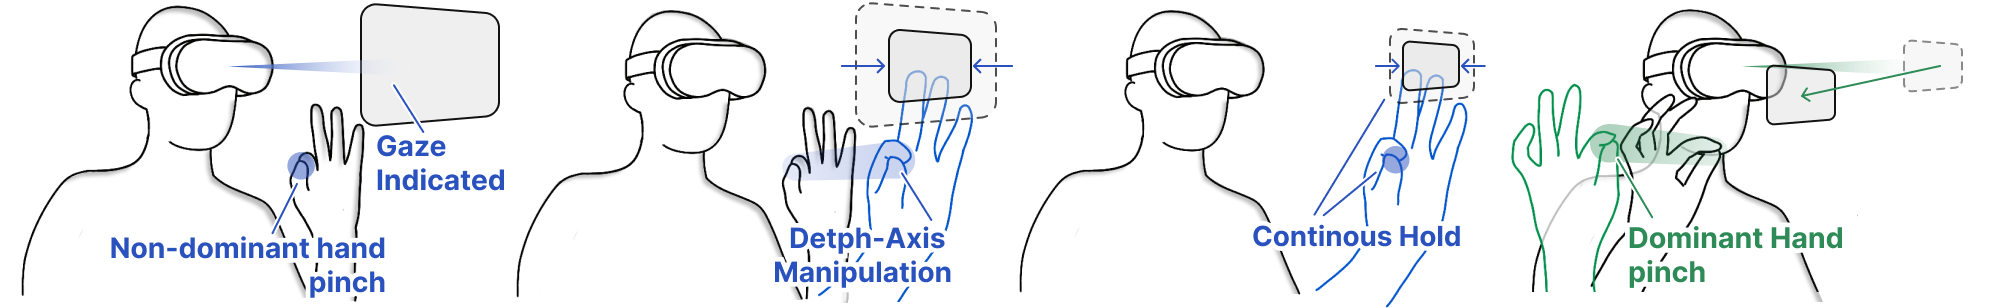
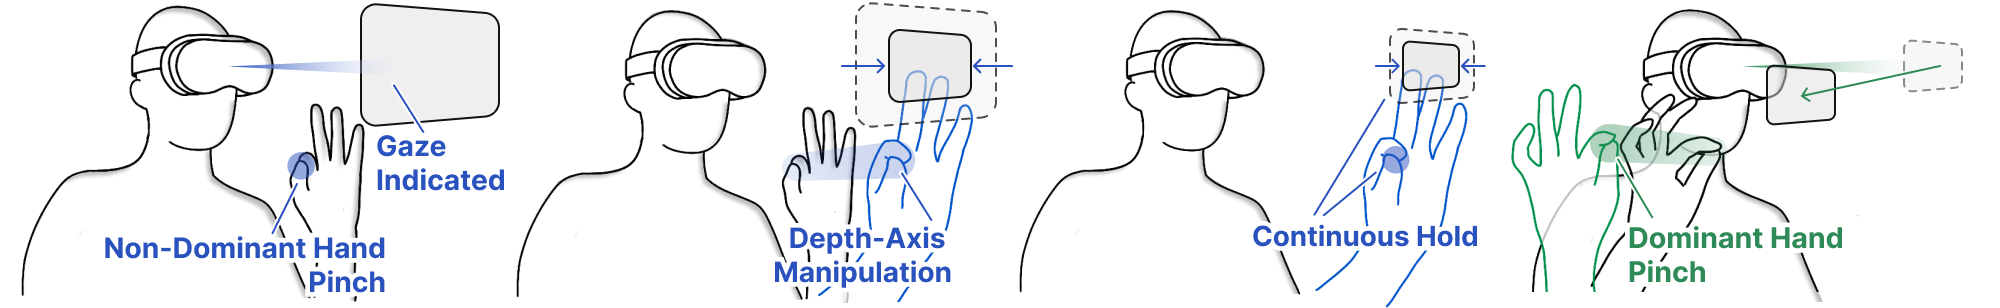
Add video via Git LFS

diff --git a/index.html b/index.html
@@ -71,7 +71,7 @@
                 <span class="link-block">
                   <a href="#" class="external-link button is-normal is-rounded is-dark is-disabled-link">
                     <span class="icon"><i class="fab fa-github"></i></span>
-                    <span>Github</span>
+                    <span>GitHub</span>
                   </a>
                 </span>
 
@@ -116,12 +116,14 @@
           <div class="content has-text-justified">
             <p class="placeholder-text">Object scaling serves as a fundamental spatial manipulation that enables complex and productive tasks in XR environments. This paper investigates unimanual scaling techniques for XR using gaze and hand interactions. We propose UniScale, a set of unimanual alternatives to the standard bimanual pinch, allowing users to scale objects while preserving hand availability for concurrent spatial manipulations. We design five distinct mapping strategies based on physical metaphors, exploring unimanual control that varies depth, angle, micro-gestures, and finger-distance input. We then compare these techniques against a standard bimanual baseline, in which users adjust the inter-hand distance via a bimanual pinch gesture. In a user study, we evaluate their effectiveness in a 3D object scaling task under both clutching and clutching-free conditions. The results indicate that while bimanual scaling relies on clutching for stable control, unimanual techniques excel in clutching-free conditions, significantly reducing physical hand movement. From the results, we derive valuable design implications for developing efficient 3D multimodal interactions in XR.</p>
           </div>
+          <!--
           <div class="learn-more-container" style="margin-top: 20px;">
             <a href="#" class="button is-info is-rounded is-light is-disabled-link">
               <span class="icon"><i class="fas fa-arrow-right"></i></span>
               <span>Learn more about UniScale</span>
             </a>
           </div>
+          -->
         </div>
       </div>
     </div>
@@ -131,6 +133,12 @@
   <section class="section method-overview-section">
     <div class="container is-max-desktop">
       <div class="method-overview-block">
+        <h2 class="title is-3 method-overview-title">Method Overview</h2>
+        <div class="content method-overview-content">
+          <p class="placeholder-text">Gaze selects the target, then NDH pinch gestures control scaling — freeing the DH for concurrent tasks — across five techniques in clutching and clutch-free modes.</p>
+          <p class="placeholder-text">Six gaze+pinch scaling techniques shown across Initial State → Mode Activation → Scale Manipulation → Confirmation, categorized into Pinch-based (uniDepth, uniAngle), Micro Gesture (uniMicro), Finger-based (uniSemi, biSemi), and Bimanual baseline (biDistance), with clutching and clutch-free conditions indicated.</p>
+        </div>
+
         <div class="method-carousel" id="method-carousel">
           <button class="carousel-btn carousel-prev" type="button" aria-label="Previous method">
             <i class="fas fa-chevron-left"></i>
@@ -162,27 +170,6 @@
             <i class="fas fa-chevron-right"></i>
           </button>
         </div>
-
-        <h2 class="title is-3 method-overview-title">Method Overview</h2>
-        <div class="content method-overview-content">
-          <p class="placeholder-text">Gaze selects the target, then NDH pinch gestures control scaling — freeing the DH for concurrent tasks — across five techniques in clutching and clutch-free modes.</p>
-          <p class="placeholder-text">Six gaze+pinch scaling techniques shown across Initial State → Mode Activation → Scale Manipulation → Confirmation, categorized into Pinch-based (uniDepth, uniAngle), Micro Gesture (uniMicro), Finger-based (uniSemi, biSemi), and Bimanual baseline (biDistance), with clutching and clutch-free conditions indicated.</p>
-
-          <div class="learn-more-container" style="margin-top: 2rem;">
-            <div style="margin-bottom: 1rem;">
-              <a href="#" class="button is-info is-rounded is-light is-disabled-link">
-                <span class="icon"><i class="fas fa-arrow-right"></i></span>
-                <span>Learn more about technical details</span>
-              </a>
-            </div>
-            <div>
-              <a href="#" class="button is-info is-rounded is-light is-disabled-link">
-                <span class="icon"><i class="fas fa-arrow-right"></i></span>
-                <span>Learn more about datasets</span>
-              </a>
-            </div>
-          </div>
-        </div>
       </div>
     </div>
   </section>
@@ -191,6 +178,11 @@
   <section class="section hero is-light">
     <div class="container is-max-desktop">
       <div class="method-overview-block">
+        <h2 class="title is-3 method-overview-title">Result</h2>
+        <div class="content method-overview-content">
+          <p class="placeholder-text">In a user study evaluating six scaling techniques under clutching and clutch-free conditions, bimanual scaling relied on clutching for stable control, while unimanual techniques excelled in clutch-free conditions and significantly reduced physical hand movement.</p>
+        </div>
+
         <div class="method-carousel" id="result-carousel">
           <button class="carousel-btn carousel-prev" type="button" aria-label="Previous result">
             <i class="fas fa-chevron-left"></i>
@@ -215,11 +207,6 @@
           <button class="carousel-btn carousel-next" type="button" aria-label="Next result">
             <i class="fas fa-chevron-right"></i>
           </button>
-        </div>
-
-        <h2 class="title is-3 method-overview-title">Result</h2>
-        <div class="content method-overview-content">
-          <p class="placeholder-text">In a user study evaluating six scaling techniques under clutching and clutch-free conditions, bimanual scaling relied on clutching for stable control, while unimanual techniques excelled in clutch-free conditions and significantly reduced physical hand movement.</p>
         </div>
       </div>
     </div>
@@ -250,10 +237,9 @@
           <div class="column is-four-fifths">
             <h2 class="title is-3">Research Presentation</h2>
             <div class="publication-video">
-              <div class="placeholder-box video" style="position: absolute; inset: 0; border-radius: 10px;">
-                <i class="fab fa-youtube"></i>
-                Presentation video will be added here.
-              </div>
+              <video controls playsinline preload="metadata">
+                <source src="./src/UniScaleVideoDemo.mp4" type="video/mp4">
+              </video>
             </div>
           </div>
         </div>

diff --git a/css/index.css b/css/index.css
@@ -119,12 +119,15 @@ body {
   border-radius: 10px !important;
 }
 
-.publication-video iframe {
+.publication-video iframe,
+.publication-video video {
   position: absolute;
   top: 0;
   left: 0;
   width: 100%;
   height: 100%;
+  object-fit: contain;
+  background: #f5f5f5;
 }
 
 .eql-cntrb {
@@ -235,12 +238,13 @@ body {
 }
 
 .method-overview-title {
-  margin-top: 1.75rem;
+  margin-top: 0;
   margin-bottom: 1rem;
 }
 
 .method-overview-content {
   max-width: 100%;
+  margin-bottom: 1.75rem;
 }
 
 .method-carousel {
